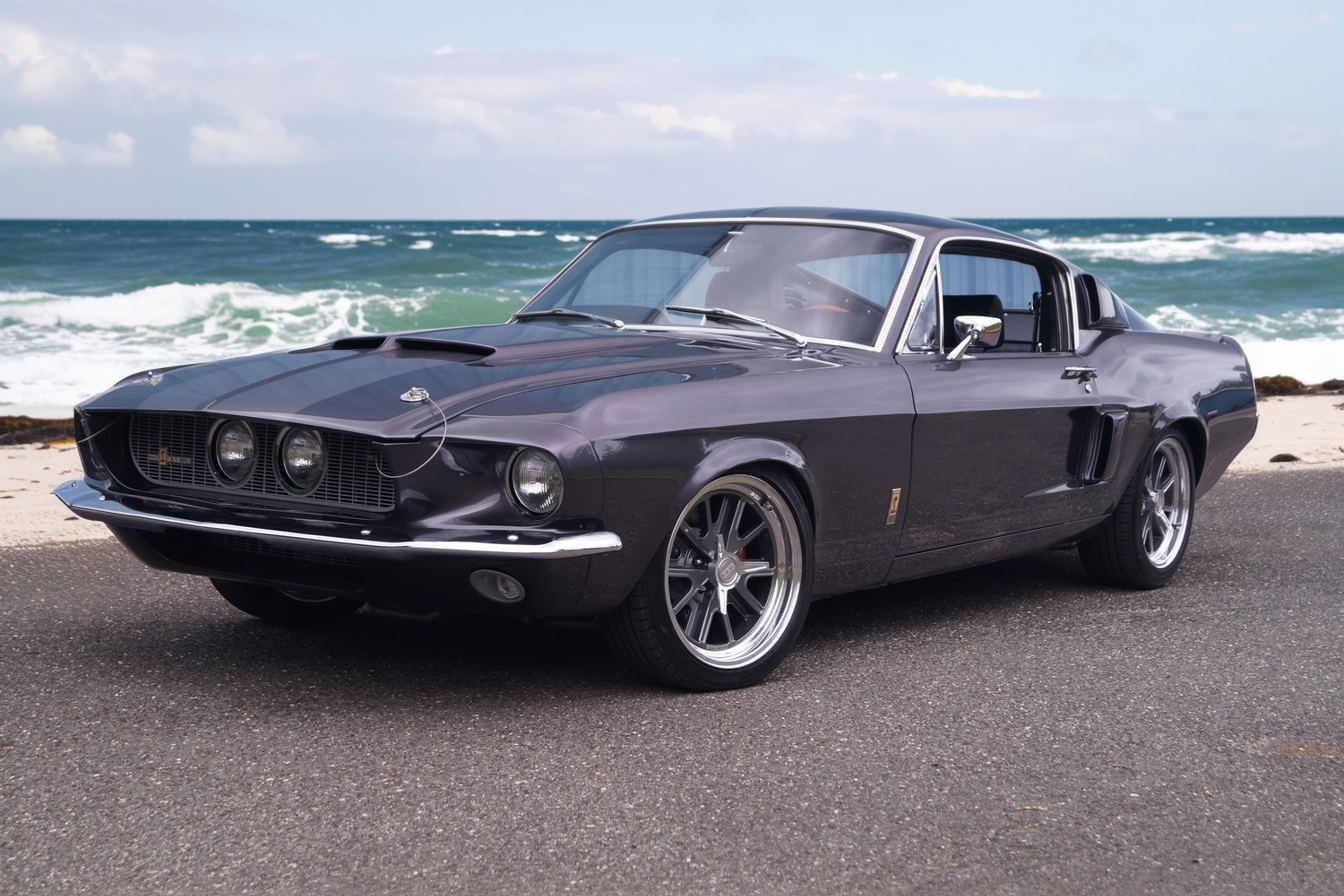
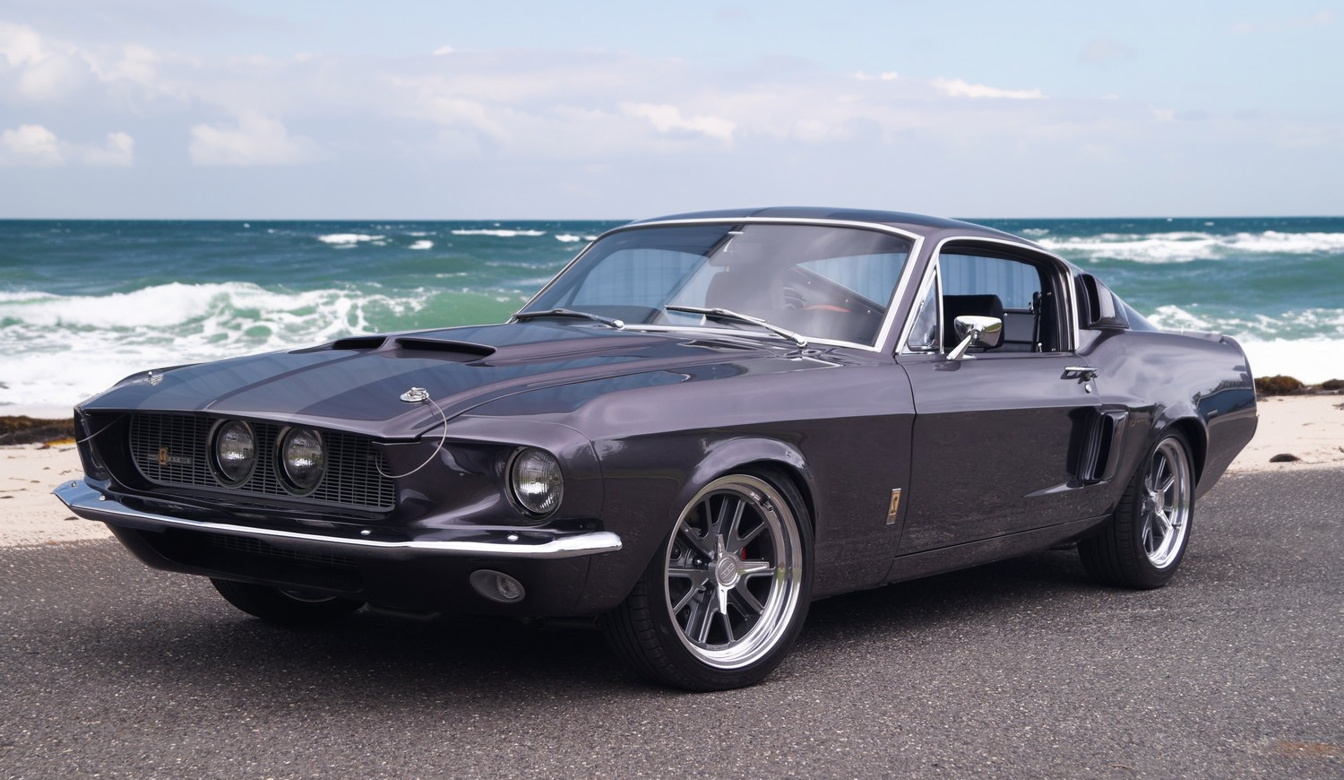
Hero img formatting

diff --git a/ccnj-com/index.css b/ccnj-com/index.css
@@ -73,7 +73,7 @@ h2 {
     /* For SVG overlay */
     /*position: relative;*/
     width: 100%;
-    height: 60vh;
+    /*height: 60vh;*/
     /*max-width: 1000px; /* optional */
     margin: 0 auto 7rem auto;
     
@@ -102,15 +102,17 @@ h2 {
 }
 /* ~~~ NEW ~~~ */
 #hero-image {
-    display: block;
+    /*display: block;
     width: 100%;
-    min-height: 450px;
+    min-height: 450px;*/
     /*max-width: 600px; /* Adjust based on your design */
     /*border-radius: 40px; /* Rounded corners */
     /*border: 1px solid #b3834d;*/
-    margin: 0 auto;
+    /*margin: 0 auto;
     object-fit: cover;
-    box-shadow: 2px 2px 1px rgba(0, 0, 0, 0.3);
+    box-shadow: 2px 2px 1px rgba(0, 0, 0, 0.3);*/
+    width: 100%;
+    height: auto;
 }
 #hero-text {
     background-color: rgba(0, 0, 0, 0.5);
@@ -120,6 +122,8 @@ h2 {
     transform: translate(-50%, -50%);
     color: white;
 }
+
+
 
 #giant-logo {
     position: absolute;
@@ -476,6 +480,13 @@ h2 {
     
     .splash-img {
         max-width: 39vw;
+    }
+}
+
+@media (min-width: 1100px) {
+    
+    #hero-image {
+        transform: translateY(clamp(-7em, calc(1600px - 100vw), 0em));
     }
 }
 

diff --git a/ccnj-com/index.html b/ccnj-com/index.html
@@ -60,7 +60,7 @@
                 <h1 id="giant-logo-text-1">Coastal Classics</h1>
                 <h3 id="giant-logo-text-2">AUTOMOTIVE RESTORATION &amp; CUSTOMIZATION</h3>
             </div>
-            <picture>
+            <picture id="hero-image">
                 <source media="(min-width: 600px)" srcset="/ccnj-com/images/home-hero-desktop.png">
                 <source media="(max-width: 599px)" srcset="/ccnj-com/images/home-hero-mobile.png">
                 <img src="/ccnj-com/images/home-hero-desktop.png" alt="Hero image">

diff --git a/ccnj-com/style.css b/ccnj-com/style.css
@@ -528,7 +528,7 @@ a.glow-button {
 @media (min-width: 1024px) { /* MEDIUM LANDSCAPE (TABLETS) */
 
     .container {
-        max-width: 80vw;
+        /*max-width: 80vw;*/
     }
 }
 
